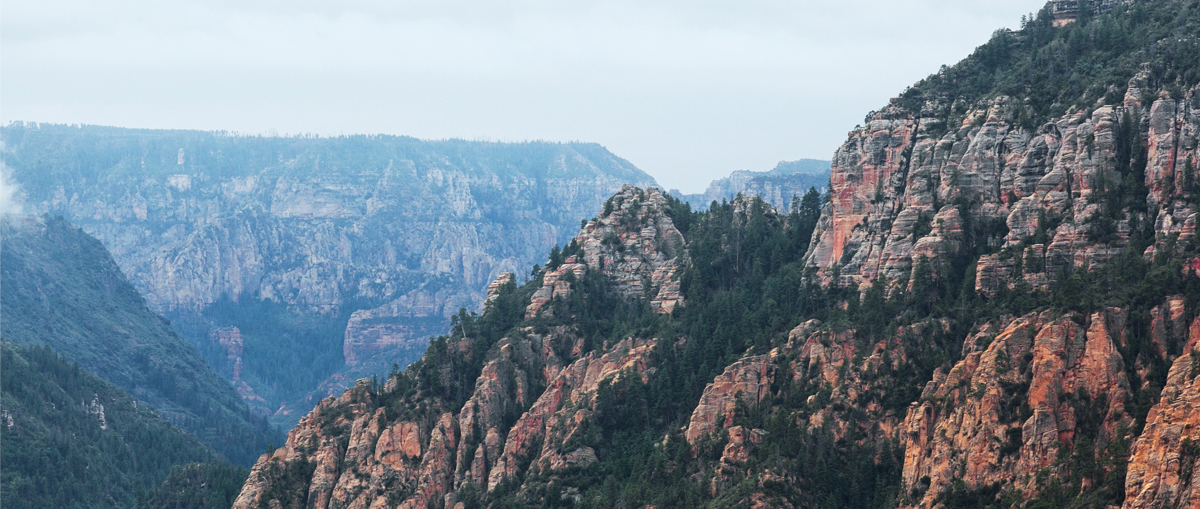
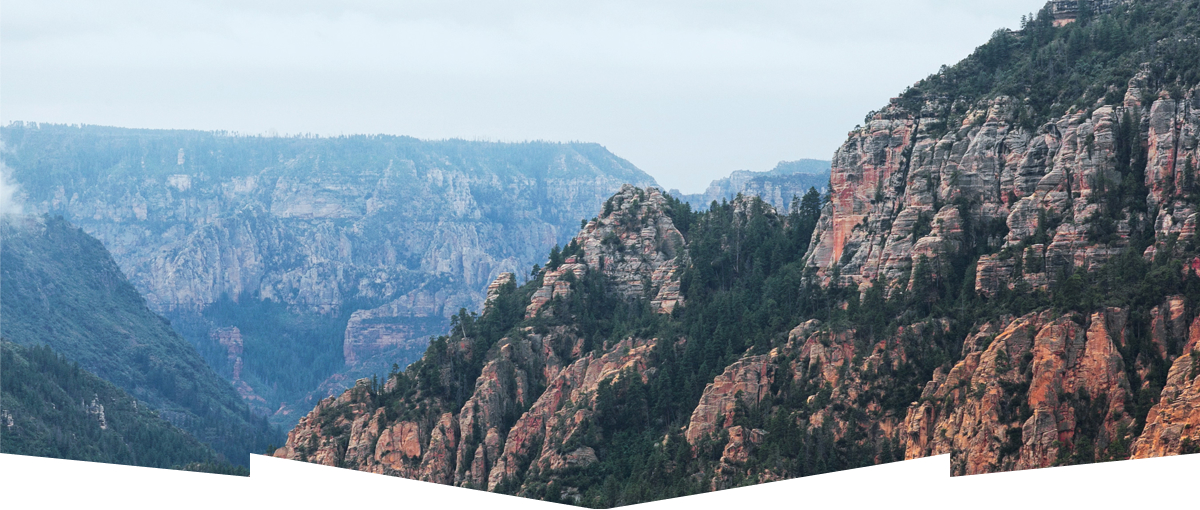
Выполнил стилизацию главной страницы

diff --git a/index.html b/index.html
@@ -1,21 +1,24 @@
 <!DOCTYPE html>
-<html lang="ru">
+<html class="page" lang="ru">
   <head>
     <meta charset="utf-8">
     <title>HTML Academy: Седона</title>
+    <link rel="stylesheet" href="https://fonts.googleapis.com/css2?family=Lato&family=PT+Sans:wght@400;700&family=Roboto&display=swap">
+    <link href="normalize.css" rel="stylesheet">
+    <link href="css/style.css" rel="stylesheet">
     <link rel="icon" href="favicon.ico">
     <link rel="icon" href="img/favicon/icon.svg" type="image/svg+xml">
     <link rel="apple-touch-icon" href="img/favicon/180.png">
     <link rel="manifest" href="manifest.webmanifest">
   </head>
-  <body>
-    <header>
-      <nav>
-        <ul>
+  <body class="page-body">
+    <header class="main-header">
+      <nav class="main-navigation">
+        <ul class="site-navigation">
           <li><a href="#">Информация</a></li>
           <li><a href="#">Фото и видео</a></li>
           <li> 
-            <a>
+            <a class="main-header-logo">
             <img src="img/logo.svg" width="138" height="70" alt="Логотип туристического городка Седона">
           </a>
         </li>
@@ -24,88 +27,88 @@
         </ul>
       </nav>
     </header>
-    <main>
+    <main class="container">
       <h1>Туристический городок Седона</h1>
-      <section>
+      <section class="welcome">
         <h2>Приветствие</h2>
             <a>
-              <img src="img/welcome-sedona.svg" width="456.65" height="350.88" alt="Добро пожаловать в Седону!">
+              <img src="img/welcome-sedona.svg" width="457" height="351" alt="Добро пожаловать в Седону!">
             </a>
       </section>
-      <section>
-        <h2>Седона — небольшой городок в Аризоне, заслуживающий большего!</h2>
+      <section class="features">
+        <h2>Седона — небольшой городок в Аризоне,<br> заслуживающий большего!</h2>
         <p>Рассмотрим 5 причин, по которым Седона круче, чем Гранд Каньон!</p>
-        <ul>
-          <li>
-            <h3>Настоящий городок</h3>
-            <p>№1</p>
-            <p>Седона — не аттракцион для туристов, там течёт своя жизнь</p>
+        <ul class="features-list">
+          <li class="feature-item-white">
+            <h3>Настоящий<br>городок</h3>
+            <p>— №1 —</p>
+            <p>Седона — не аттракцион для туристов, там <br>течёт своя жизнь</p>
             <img src="img/image-1.jpg" width="800" height="256" alt="Красивый вид на городок">
-                <ul>
-                  <li>
+                <ul class="features-list-nested">
+                  <li class="feature-item-nested">
                     <h3>Жильё</h3>
-                    <p>Рекомендуем пожить в настоящем мотеле, всё как в кино!</p>
+                    <p>Рекомендуем пожить в настоящем <br>мотеле, всё как в кино!</p>
                   </li>
-                  <li>
+                  <li class="feature-item-nested">
                     <h3>Еда</h3>
-                    <p>Всегда заказывайте фирменный бургер, вы не разочаруетесь!</p>
+                    <p>Всегда заказывайте фирменный бургер,<br> вы не разочаруетесь!</p>
                   </li>
-                  <li>
+                  <li class="feature-item-nested">
                     <h3>Сувениры</h3>
-                    <p>Не только китайского, но и местного производства!</p>
+                    <p>Не только китайского, но и местного<br> производства!</p>
                   </li>
                 </ul>
           </li>
-          <li>
+          <li class="feature-item-white">
             <h3>Там есть мост дьявола</h3>
-            <p>№2</p>
-            <p>Да, по нему можно пройти! Если конечно вы осмелитесь</p>
+            <p>— №2 —</p>
+            <p>Да, по нему можно пройти! Если конечно <br> вы осмелитесь</p>
             <img src="img/image-2.jpg" width="800" height="256" alt="Вид на мост с высоты">
           </li>
-          <li>
+          <li class="feature-item">
             <h3>Небольшая площадь</h3>
-            <p>№3</p>
-            <p>все достопримечательности находятся очень близко</p> 
+            <p>— №3 —</p>
+            <p>все достопримечательности<br> находятся очень близко</p> 
           </li>
-          <li>
+          <li class="feature-item">
             <h3>Красивая дорога</h3>
-            <p>№4</p>
-            <p>ехать в седону из лас-вегаса совсем не скучно!</p> 
+            <p>— №4 —</p>
+            <p>ехать в седону из лас-вегаса совсем <br> не скучно!</p> 
           </li>
-          <li>
+          <li class="feature-item">
             <h3>Мало туристов</h3>
-            <p>№5</p>
-            <p>большинство едет в гранд каньон и толпится там</p> 
+            <p>— №5 —</p>
+            <p>большинство едет в гранд каньон<br> и толпится там</p> 
           </li>
         </ul>
       </section>
-      <section>
+      <section class="search-hotel">
         <h2>Заинтересовались?</h2>
-        <p>Укажите предполагаемые даты поездки, и мы покажем вам лучшие предложения гостиниц в Седоне</p>
+        <p>Укажите предполагаемые даты поездки,<br> и мы покажем вам лучшие предложения гостиниц в Седоне</p>
         <a class="btn btn-open-form" href="form.html">Поиск гостиницы в Седоне</a>
         <p><img src="img/map.jpg" width="1199" height="594" alt="Карта с расположением города"></p>
           </section>
     </main>
-    <footer>
-      <section>
+    <footer class="main-footer">
+      <section class="footer-contacts">
         <h2>#visitSEDONA</h2>
-        <a href="tel:+78005558628">+7 800 555-86-28</a>
+        <a class="footer-phone" href="tel:+78005558628">+7 800 555-86-28</a>
       </section>
-      <section>
+      <section class="footer-social">
         <h2>Социальные сети</h2>
         <ul>
           <li>
-            <a href="#">Твиттер</a>
+            <a class="social-button" href="#">Твиттер</a>
           </li>
           <li>
-            <a href="#">Фейсбук</a>
+            <a class="social-button" href="#">Фейсбук</a>
           </li>
           <li>
-            <a href="#">Ютуб</a>
+            <a class="social-button" href="#">Ютуб</a>
           </li>
         </ul>
       </section>
-      <p>
+      <p class="footer-copyright">
         Website by
         <a href="https://htmlacademy.ru/intensive/htmlcss">
           <img src="img/logo_htmlacademy.svg" width="115" height="33" alt="Перейти страницу разработчика сайта">

diff --git a/css/style.css b/css/style.css
@@ -1,0 +1,128 @@
+:root {
+    --basic-black: #000000;
+    --basic-white: #FFFFFF;
+    --basic-gray: #EEEEEE;
+    --basic-brown: #766357;
+    --basic-blue: #81B3D2;
+   
+    --special: #663d15;
+  }
+
+  body {
+    min-width: 1200px;
+    margin: 0;
+    padding: 0;
+    font-family: "PT Sans", Arial, sans-serif;
+    font-size: 14px;
+    line-height: 26px;
+    font-style: normal;
+    font-weight: 400;
+    color: var(--basic-black);
+    text-transform: uppercase;
+    background-color: var(--basic-white);
+  }
+  .main-navigation {
+    font-weight: 700;
+    background-color: var(--basic-white);
+  }
+  .site-navigation {
+    list-style: none;
+  }
+  .site-navigation a {
+    text-decoration: none;
+    color: var(--basic-black);
+  }
+  .welcome {
+    background-image: url("img/background-index.jpg");
+    background-position: top center;
+    background-repeat: no-repeat;
+    max-width: 100%;
+    height: auto;
+
+  }
+
+  .features h2 {
+    text-align: center;
+    font-size: 21px;
+    font-weight: 700;
+  }
+  .features p {
+    text-align: center;
+  }
+  .features-list {
+    list-style: none;
+  }
+  
+  .feature-item-white {
+    color: var(--basic-white);
+    background-color: var(--basic-blue);
+    background-position: 0 0;
+    text-align: center;
+    line-height: 21px;
+  }
+  .feature-item-white h3 {
+    text-align: center;
+    font-size: 21px;
+    line-height: 21px;
+    font-weight: 700;
+  }
+  .features-list-nested {
+    color: var(--basic-black);
+    background-color: var(--basic-white);
+    background-position: 0 0;
+    text-align: center;
+    list-style: none;
+    line-height: 21px;
+  }
+  .features-list-nested h3 {
+    font-size: 21px;
+    line-height: 21px;
+    font-weight: 700;
+  }
+  .feature-item {
+    text-align: center;
+    line-height: 21px;
+}
+  .feature-item h3 {
+    font-size: 21px;
+    line-height: 21px;
+    font-weight: 700;
+}
+.search-hotel {
+    text-align: center;
+    line-height: 24px;
+}
+.search-hotel h2 {
+    font-size: 30px;
+    line-height: 24px;
+    font-weight: 700;
+    text-align: center;
+}
+.btn-open-form {
+    font: inherit;
+    text-align: center;
+    color: var(--basic-white);
+    vertical-align: middle;
+    text-transform: uppercase;
+    background-color: var(--basic-brown);
+    border: none;
+    font-size: 21px;
+    font-weight: 700;
+  }
+.footer-contacts {
+    font-size: 21px;
+    font-weight: 700;
+}
+.footer-contacts a {
+   text-decoration: none;
+   color: var(--basic-black);
+}
+.footer-social {
+    text-align: center;
+  }
+.footer-social ul {
+    list-style: none;
+  }
+.social-button {
+    background-color: var(--basic-blue);
+  }
